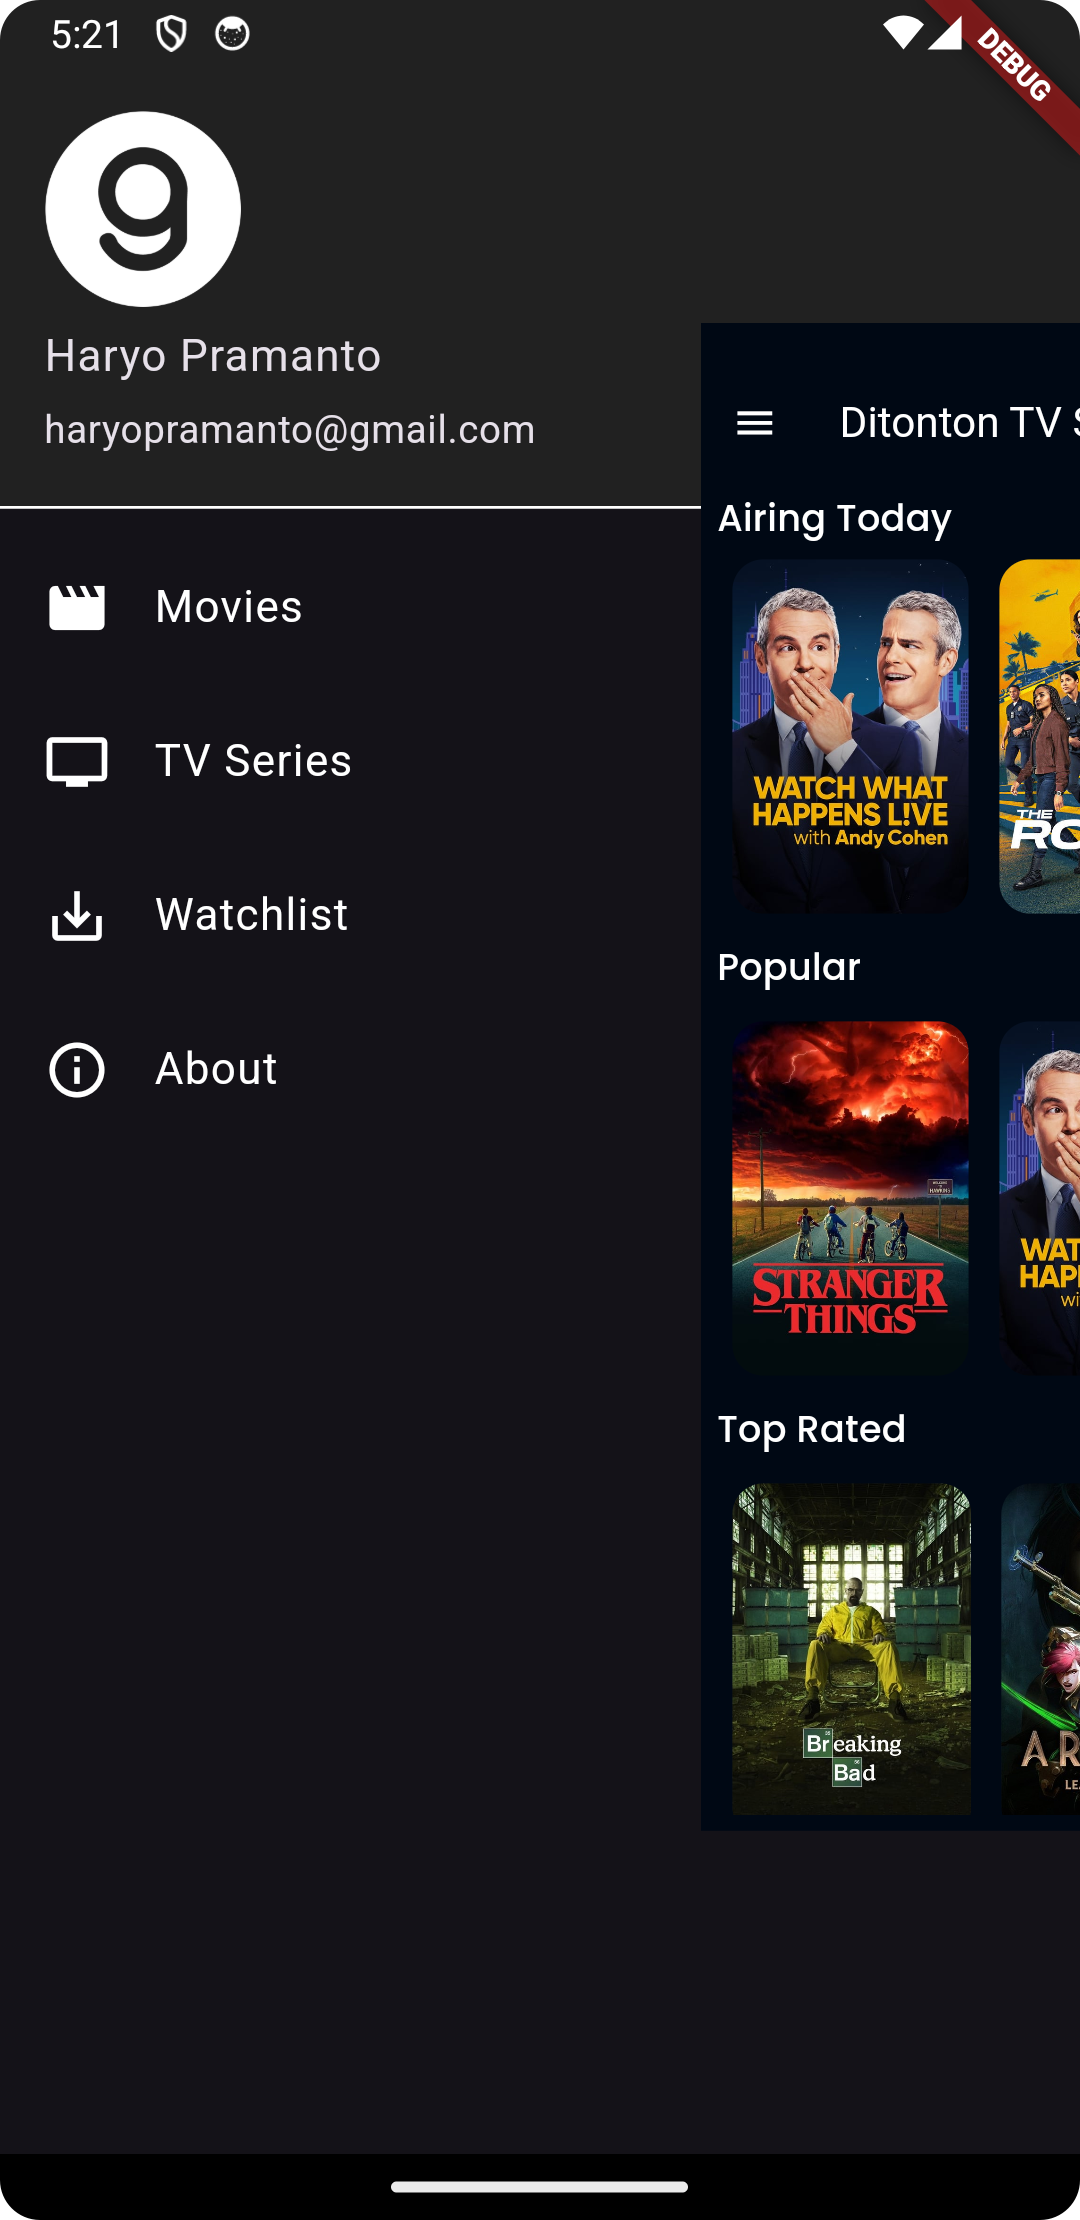
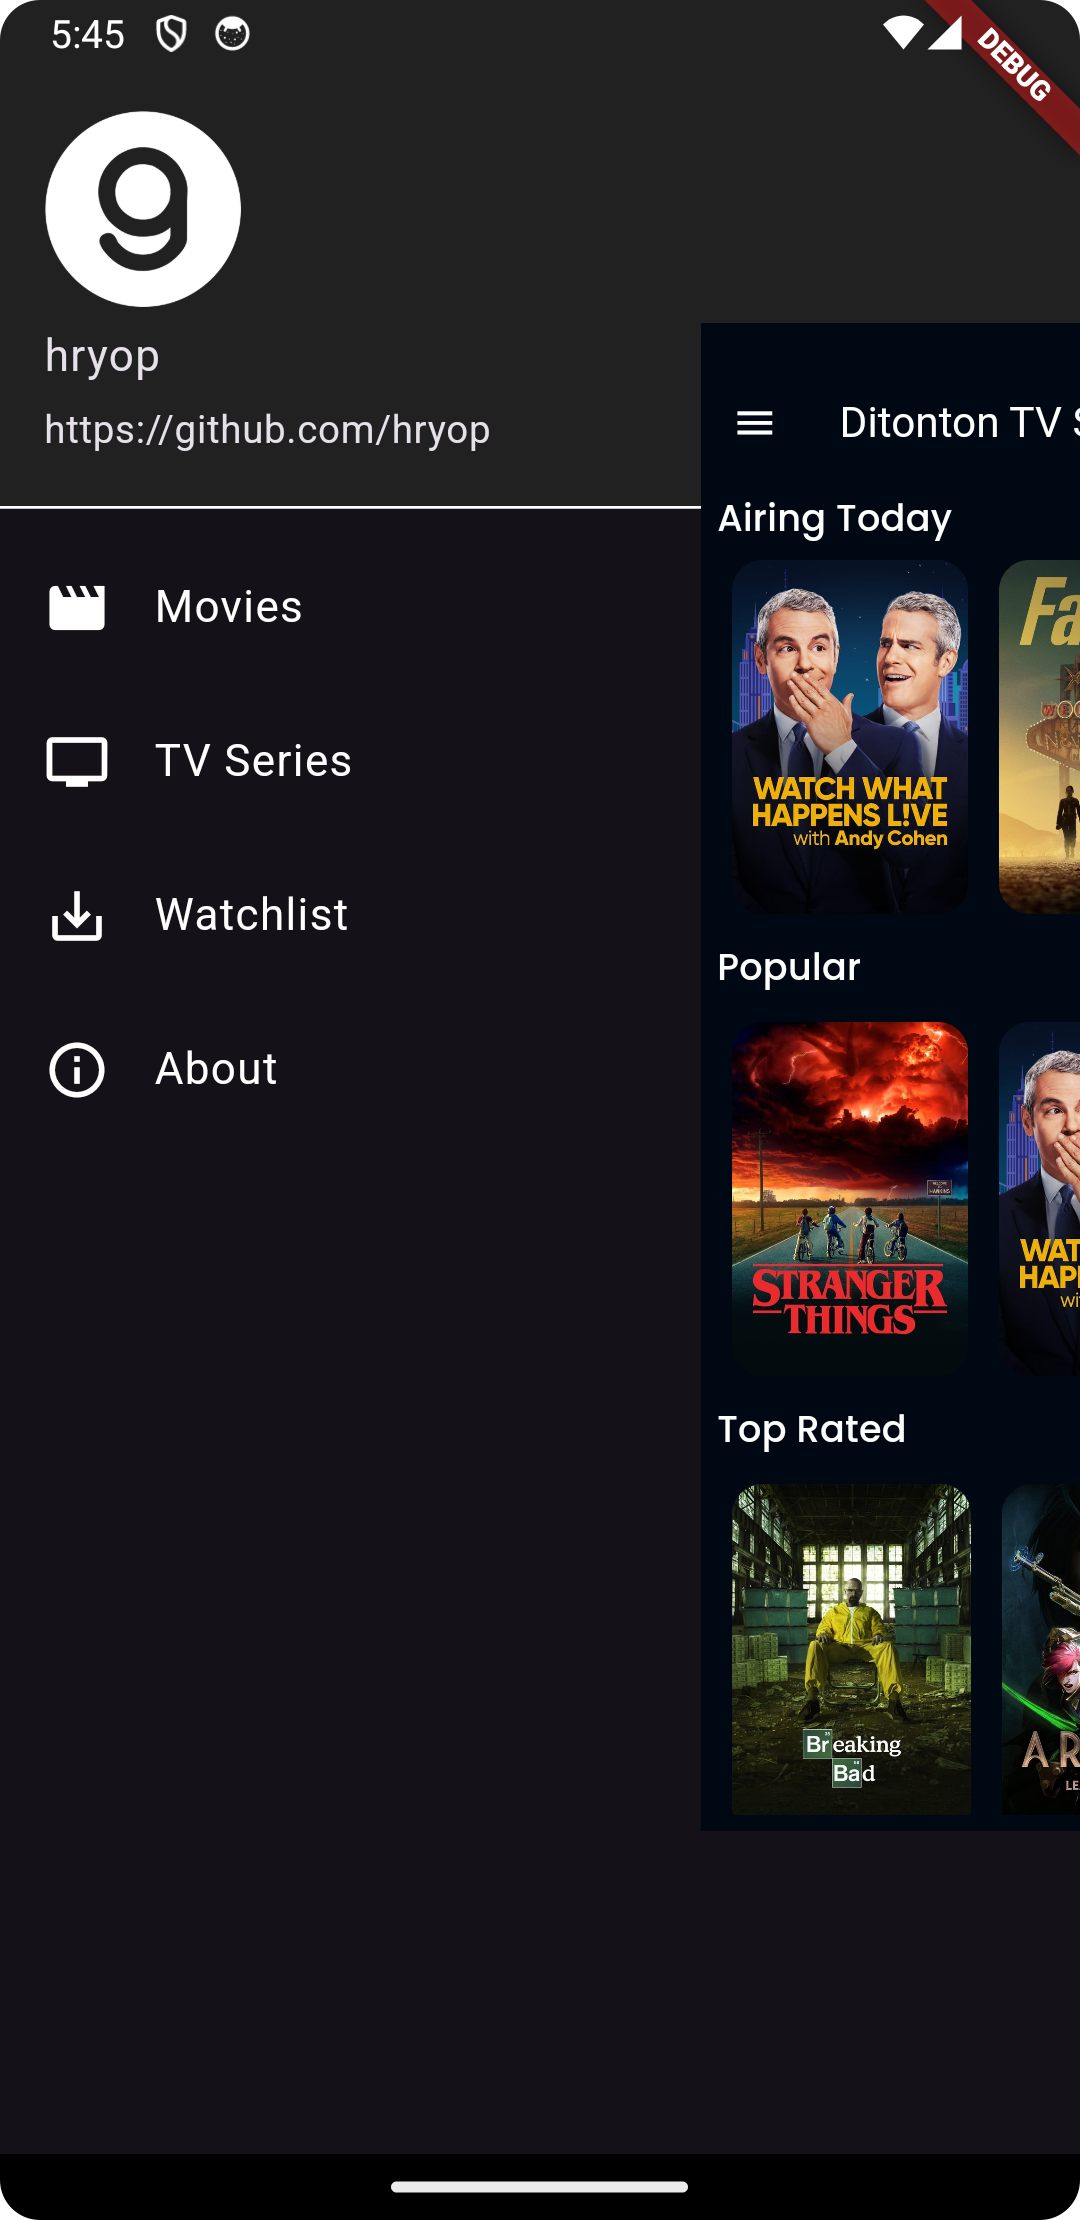
update readme

diff --git a/lib/presentation/widgets/custom_drawer.dart b/lib/presentation/widgets/custom_drawer.dart
@@ -82,8 +82,10 @@ class _CustomDrawerState extends State<CustomDrawer>
               backgroundImage: AssetImage('assets/circle-g.png'),
               backgroundColor: Colors.grey.shade900,
             ),
-            accountName: Text('Haryo Pramanto'),
-            accountEmail: Text('haryopramanto@gmail.com'),
+            accountName: Text('hryop'),
+            accountEmail: Text('https://github.com/hryop'),
+            // accountName: Text('Haryo Pramanto'),
+            // accountEmail: Text('haryopramanto@gmail.com'),
             decoration: BoxDecoration(
               color: Colors.grey.shade900,
             ),

diff --git a/test/helpers/test_helper.mocks.dart b/test/helpers/test_helper.mocks.dart
@@ -503,6 +503,17 @@ class MockMovieLocalDataSource extends _i1.Mock
         returnValue:
             _i7.Future<List<_i15.MovieTable>>.value(<_i15.MovieTable>[]),
       ) as _i7.Future<List<_i15.MovieTable>>);
+
+  @override
+  _i7.Future<List<_i15.MovieTable>> getCachedAiringTodayTvSeries() =>
+      (super.noSuchMethod(
+        Invocation.method(
+          #getCachedAiringTodayTvSeries,
+          [],
+        ),
+        returnValue:
+            _i7.Future<List<_i15.MovieTable>>.value(<_i15.MovieTable>[]),
+      ) as _i7.Future<List<_i15.MovieTable>>);
 }
 
 /// A class which mocks [DatabaseHelper].

diff --git a/README.md b/README.md
@@ -2,53 +2,20 @@
 
 <img src="https://github.com/hryop/ditonton_dicoding_hryop/blob/main/readme_assets/screenshot_1.png" width="200" height="355,56"> <img src="https://github.com/hryop/ditonton_dicoding_hryop/blob/main/readme_assets/screenshot_2.png" width="200" height="355,56">
 
-Repository ini dibuat dari [starter project a199-flutter-expert-project](https://github.com/dicodingacademy/a199-flutter-expert-project) untuk submission kelas [Flutter Expert Dicoding Indonesia](https://www.dicoding.com/academies/199-menjadi-flutter-developer-expert).
+This repository was developed based on [starter project a199-flutter-expert-project](https://github.com/dicodingacademy/a199-flutter-expert-project) for [Flutter Expert Dicoding Indonesia](https://www.dicoding.com/academies/199-menjadi-flutter-developer-expert) class submission.
 
 ---
 
-## Tips Submission Awal
+## Features
+1. Scrolling through popular and top rated of movies and tv series from [TMDB API](https://developer.themoviedb.org/docs/getting-started) including now playing movies and airing today tv series
+2. Search movies and tv series that availabel in [TMDB API](https://developer.themoviedb.org/docs/getting-started)
+3. See the details of selected movie or tv series
+4. Add watchlist of selected movie and tv series
 
-Pastikan untuk memeriksa kembali seluruh hasil testing pada submissionmu sebelum dikirimkan. Karena kriteria pada submission ini akan diperiksa setelah seluruh berkas testing berhasil dijalankan.
+## Build App Setup Recomendation
+- Flutter 3.24.0
+- Dart 3.5.0
+- JDK 17
 
-
-## Tips Submission Akhir
-
-Jika kamu menerapkan modular pada project, Anda dapat memanfaatkan berkas `test.sh` pada repository ini. Berkas tersebut dapat mempermudah proses testing melalui *terminal* atau *command prompt*. Sebelumnya menjalankan berkas tersebut, ikuti beberapa langkah berikut:
-1. Install terlebih dahulu aplikasi sesuai dengan Operating System (OS) yang Anda gunakan.
-    - Bagi pengguna **Linux**, jalankan perintah berikut pada terminal.
-        ```
-        sudo apt-get update -qq -y
-        sudo apt-get install lcov -y
-        ```
-    
-    - Bagi pengguna **Mac**, jalankan perintah berikut pada terminal.
-        ```
-        brew install lcov
-        ```
-    - Bagi pengguna **Windows**, ikuti langkah berikut.
-        - Install [Chocolatey](https://chocolatey.org/install) pada komputermu.
-        - Setelah berhasil, install [lcov](https://community.chocolatey.org/packages/lcov) dengan menjalankan perintah berikut.
-            ```
-            choco install lcov
-            ```
-        - Kemudian cek **Environtment Variabel** pada kolom **System variabels** terdapat variabel GENTHTML dan LCOV_HOME. Jika tidak tersedia, Anda bisa menambahkan variabel baru dengan nilai seperti berikut.
-            | Variable | Value|
-            | ----------- | ----------- |
-            | GENTHTML | C:\ProgramData\chocolatey\lib\lcov\tools\bin\genhtml |
-            | LCOV_HOME | C:\ProgramData\chocolatey\lib\lcov\tools |
-        
-2. Untuk mempermudah proses verifikasi testing, jalankan perintah berikut.
-    ```
-    git init
-    ```
-3. Kemudian jalankan berkas `test.sh` dengan perintah berikut pada *terminal* atau *powershell*.
-    ```
-    test.sh
-    ```
-    atau
-    ```
-    ./test.sh
-    ```
-    Proses ini akan men-*generate* berkas `lcov.info` dan folder `coverage` terkait dengan laporan coverage.
-4. Tunggu proses testing selesai hingga muncul web terkait laporan coverage.
-
+## Code Design & Structure
+This project is using Proivider State Management and Clean Architecture Pattern
